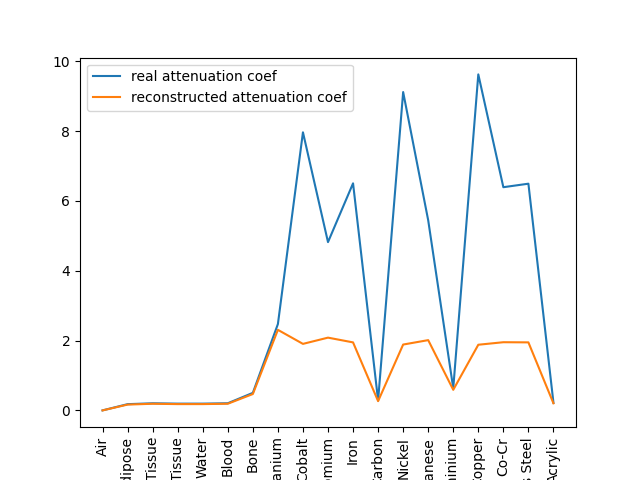
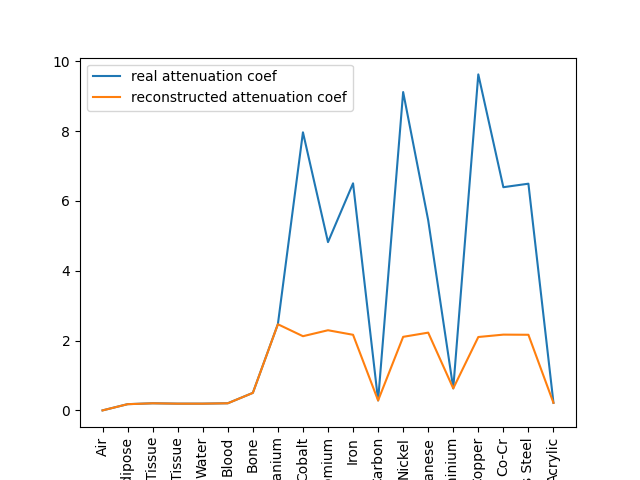
Added filter[0] = filter[1]/6 mentioned in feedback

diff --git a/gg2_python/ramp_filter.py b/gg2_python/ramp_filter.py
@@ -25,6 +25,7 @@ def ramp_filter(sinogram, scale, alpha=0.001):
 	w = np.concatenate((filter[int(m//2):], filter[0:int(m//2)]))
 	power_term = np.cos(w*np.pi/(2*np.pi/scale))**alpha
 	filter = filter*power_term
+	filter[0] = filter[1]/6
 	
 	'''
 	plt.plot(filter)
